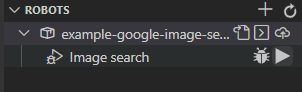
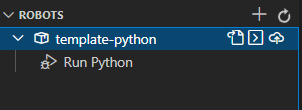
latex, robocorp misc

diff --git a/latex/example-doc/math-extension.tex b/latex/example-doc/math-extension.tex
@@ -20,4 +20,5 @@
     \RightLabel{($\wedge$E)}
     \UnaryInfC{$\phi$}
 \end{prooftree}
+needs \verb+bussproofs+
 \end{document}

diff --git a/automation/robocorp/my-first-robot.md b/automation/robocorp/my-first-robot.md
@@ -1,17 +1,29 @@
 前置
 - [[robocorp/installation]]
-- 可能需要[[configure]]代理
+- 其中`google-image-search`robot需要[[configure]]代理
+  - windows使用[[windows/env-var]]
 
 步骤
 - [官方参考文档](https://robocorp.com/docs/setup/robot-structure)
-- 举例：最简单的
-`git clone https://github.com/robocorp/example-google-image-search.git`下来，vscode打开此库
-    - 此时对于windows系统自动出现[此troubleshooting](https://robocorp.com/docs/troubleshooting/windows-long-path)，照做即可
-    - 照做重启之后可以进入下一步
-- 左侧出现robocorp图标
+- [去这找例子玩](https://robocorp.com/portal/)
+# 例子：`python`最小样例
+- `git clone https://github.com/robocorp/template-python.git`
+- vscode打开此库
+    - 此时对于windows系统可能自动出现[此troubleshooting](https://robocorp.com/docs/troubleshooting/windows-long-path)，和长路径名有关
+    - 照[链接](https://robocorp.com/docs/troubleshooting/windows-long-path)做即可，按指示重启之后可以进入下一步
+- 左侧出现robocorp图标（那个机器人）
   - 点它，现在开始加载![](my-first-robot.png)
-  - 过程可能很慢（主要是下载装包等）
-- 挂好代理[[configure]]确保谷歌能上，然后vscode左侧robocorp图标 - ![](start.png)
-- 运行成功效果：
-  - 下方有提示
-  - 打开（可能用浏览器等）运行成功生成的`log.html`，可以找到猫猫图片![](cat.png)
+  - 过程可能需要一定时间（主要是下载装包等）
+- 开始运行
+  - vscode左侧robocorp图标
+  - ![](start.png)中三角播放按钮
+  - 运行成功结果：终端有这样的输出，包括绿色`OK`![](success-terminal.png)
+  - `output`文件夹也有记录输出
+# 例子：谷歌搜索图片并保存
+- 需要[[configure]]代理
+  - windows是设置[[windows/env-var]]，参考[robocorp用代理](https://robocorp.com/docs/troubleshooting/firewall-and-proxies)
+- `git clone https://github.com/robocorp/example-google-image-search.git`
+- 挂好代理，并[[configure]]
+- 运行方式和上一节类似。运行成功效果：
+  - 下方有提示，也有绿色`OK`
+  - 打开（可能用浏览器等）运行成功生成的`output`中的`log.html`，可以找到更详细的日志，且找到猫猫图片![](cat.png)

diff --git a/latex/overleaf.md b/latex/overleaf.md
@@ -1,9 +1,14 @@
-https://www.overleaf.com/
+- https://www.overleaf.com/
 在线编辑、编译latex文档
-**在线可以编译的文档不保证本地编译不出错！！！**
-编辑页面常见功能
-- 中线处左箭头右箭头对齐latex代码和输出pdf
-- 左上角Menu，有下载，设置编译器等功能。有些`.sty`文件可能需要特定的编译器。
-  - 对比：本地设置编译器：[[recipe]]
-- 左上角上箭头，上传文件
-- `Ctrl+S`快捷键重新编译
+  - **在线可以编译的文档不保证本地编译不出错！！！**
+- 编辑页面中（打开某个项目，左边代码右边预览那个页面）常见功能
+  - 中线处左箭头右箭头对齐**代码**和**预览**的位置
+    - 即快速查询“这段代码对应pdf的哪里”
+    - 当然也可快速查询其逆问题
+  - 左上角Menu，有下载，设置编译器等功能
+    - 有些`.sty`文件可能需要特定的编译器。
+    - 对比：本地设置编译器的方法：[[recipe]]
+  - 左上角上箭头，上传文件
+  - `Ctrl+S`快捷键保存，重新编译并预览
+- 上方Templates处可以找模板
+  - 比如[北京大学各种学位的毕业论文模板](https://www.overleaf.com/latex/templates?nocdn=true&q=pku)

diff --git a/latex/recipe.md b/latex/recipe.md
@@ -7,10 +7,10 @@
 "xelatex",
 "xelatex"
 ```
-- 不需要的是
+- 不需要引用参考文献时是
 ```
 "xelatex"
 ```
-注意：如果你文中没有任何引用`\cite`，那么不可以使用`bibtex`. 至少要有一个`\cite`，才行！对比[[minimum-beamer/README]]和[[beamer-with-citations/README]]
-参考
-https://tex.stackexchange.com/questions/442519/truly-ignore-bibtex-error-no-citation-commands
+- 如果你文中没有任何引用`\cite`，那么不可以使用`bibtex`（[参考](https://tex.stackexchange.com/questions/442519/truly-ignore-bibtex-error-no-citation-commands)）
+    - 至少要有一个`\cite`，才可以使用`bibtex`
+    - 举例：对比[[minimum-beamer/README]]和[[beamer-with-citations/README]]

diff --git a/latex/example-doc/README.md b/latex/example-doc/README.md
@@ -5,4 +5,5 @@ http://static.latexstudio.net/article/2019/0204/amsmath-guide-zh-cn.pdf
 - `chinese`：使用`ctexart`文档类，可以用中文。
 - 关于引用
   - `citation-base`：基础。和[[beamer-with-citations/README]]道理是相同的
-  - `citation-multi-id-for-one-paper`：一篇paper，多个id. 比如正文和rebuttal不同，用于rebuttal省空间
+  - `citation-multi-id-for-one-paper`：一篇paper，多个id
+    - 比如同一篇，正文和rebuttal赋予id不同，对应item的长度不同，用于在rebuttal省空间

diff --git a/automation/robocorp/installation.md b/automation/robocorp/installation.md
@@ -1,7 +1,7 @@
 前置
 - [[extensions/general]]
 
-参考官网https://robocorp.com/docs/quickstart-guide
+[参考官网文档](https://robocorp.com/docs/quickstart-guide)
 - 首先注册账号
 - 然后安装指定插件
 > Install extensions. Robocorp extensions will take care of all the dependencies you need to develop robots. Install both the **Robocorp Code** and **Robot Framework Language Server** extensions for Visual Studio Code from the Visual Studio Marketplace to get full benefits.
